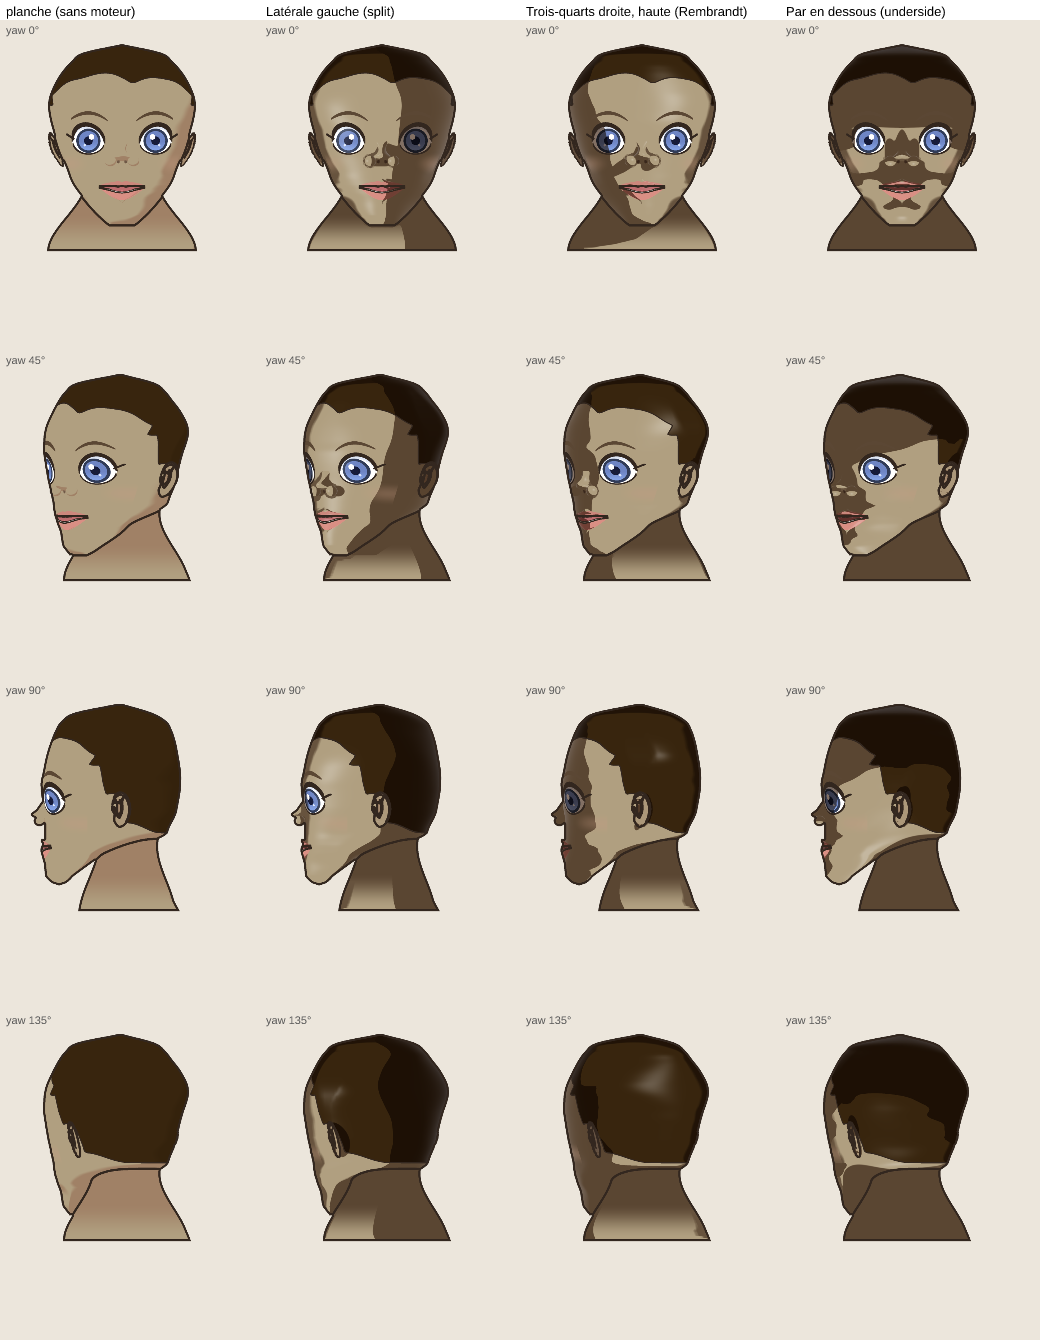
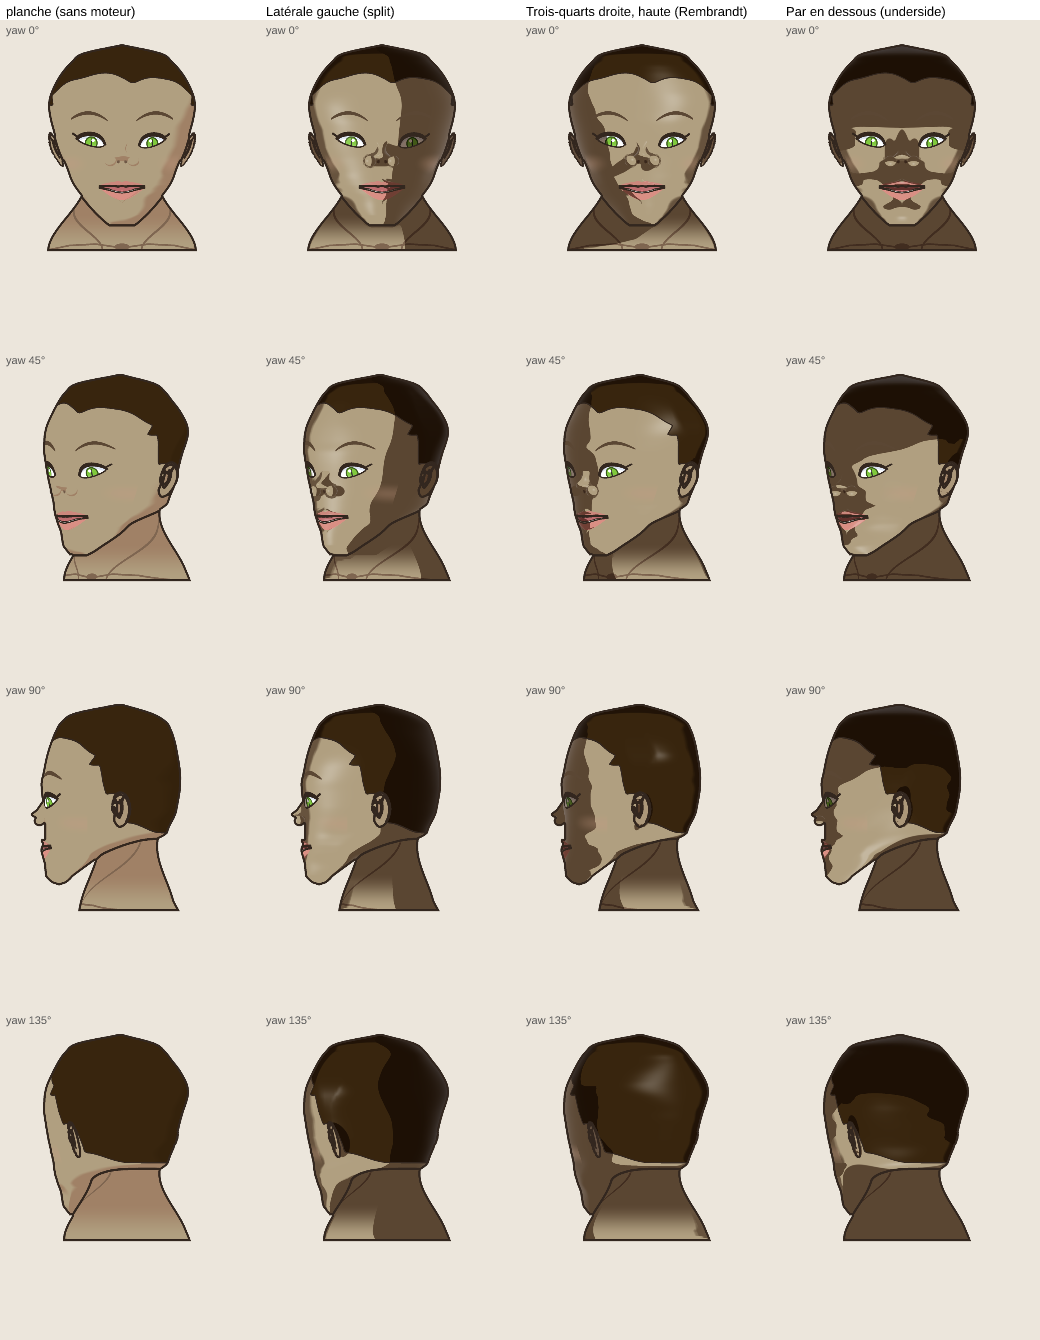
docs/artefacts(light): planche tête 3D régénérée après fusion, défauts mis à jour

diff --git a/docs/LIGHT-HEAD3D-07.md b/docs/LIGHT-HEAD3D-07.md
@@ -33,7 +33,7 @@ Coût : ≈ 1,6 s par scène à résolution 1 (moyenne mesurée dans les tests, 
 ## 4. Ce que montre la planche (`01-rotation-eclairage.png`) — lecture honnête
 - Mêmes motifs que la tête de face (`LIGHT_PATTERNS` : latérale gauche, Rembrandt, par en dessous), 4 lacets (0°, 45°, 90°, 135°) : le terminateur suit le crâne, le nez projette sur la joue, le cou reçoit l'ombre.
 - Ombres **brun chaud** : cette graine impose `#a08974` ; la teinte imposée prime (contrat `APPEARANCE.md`). Sans teinte imposée, elles sont dérivées (gris-froid en cel).
-- Défauts visibles, non corrigés : narines qui se lisent comme des taches claires dans l'ombre (texture de narine éclairée comme le reste) ; œil dans l'ombre grisé (iris multiplié par l'ombre et le cœur) ; cheveux presque noirs sous « par en dessous ».
+- Défauts visibles, non corrigés : narines qui se lisent comme des taches claires dans l'ombre (texture de narine éclairée comme le reste) ; cheveux presque noirs sous « par en dessous ». Planche régénérée APRÈS fusion avec `6d1411e` (yeux de l'hôte, roulis, reliefs du cou) : les creux du cou sont éclairés par le même modèle ; l'œil grisé vu avant la fusion n'apparaît plus à cette échelle (non mesuré).
 
 ## 5. Reste à faire (par composant)
 - **Asymétrie non expliquée** : lumière à 270° bascule fortement g/d, lumière à 90° reste proche de la parité (0,97–1,14), alors que la tête de face donne 0,49 (`LIGHT-VISIBLE-06.md`). Cause non isolée (cheveux, géométrie, fenêtre de mesure ?).
